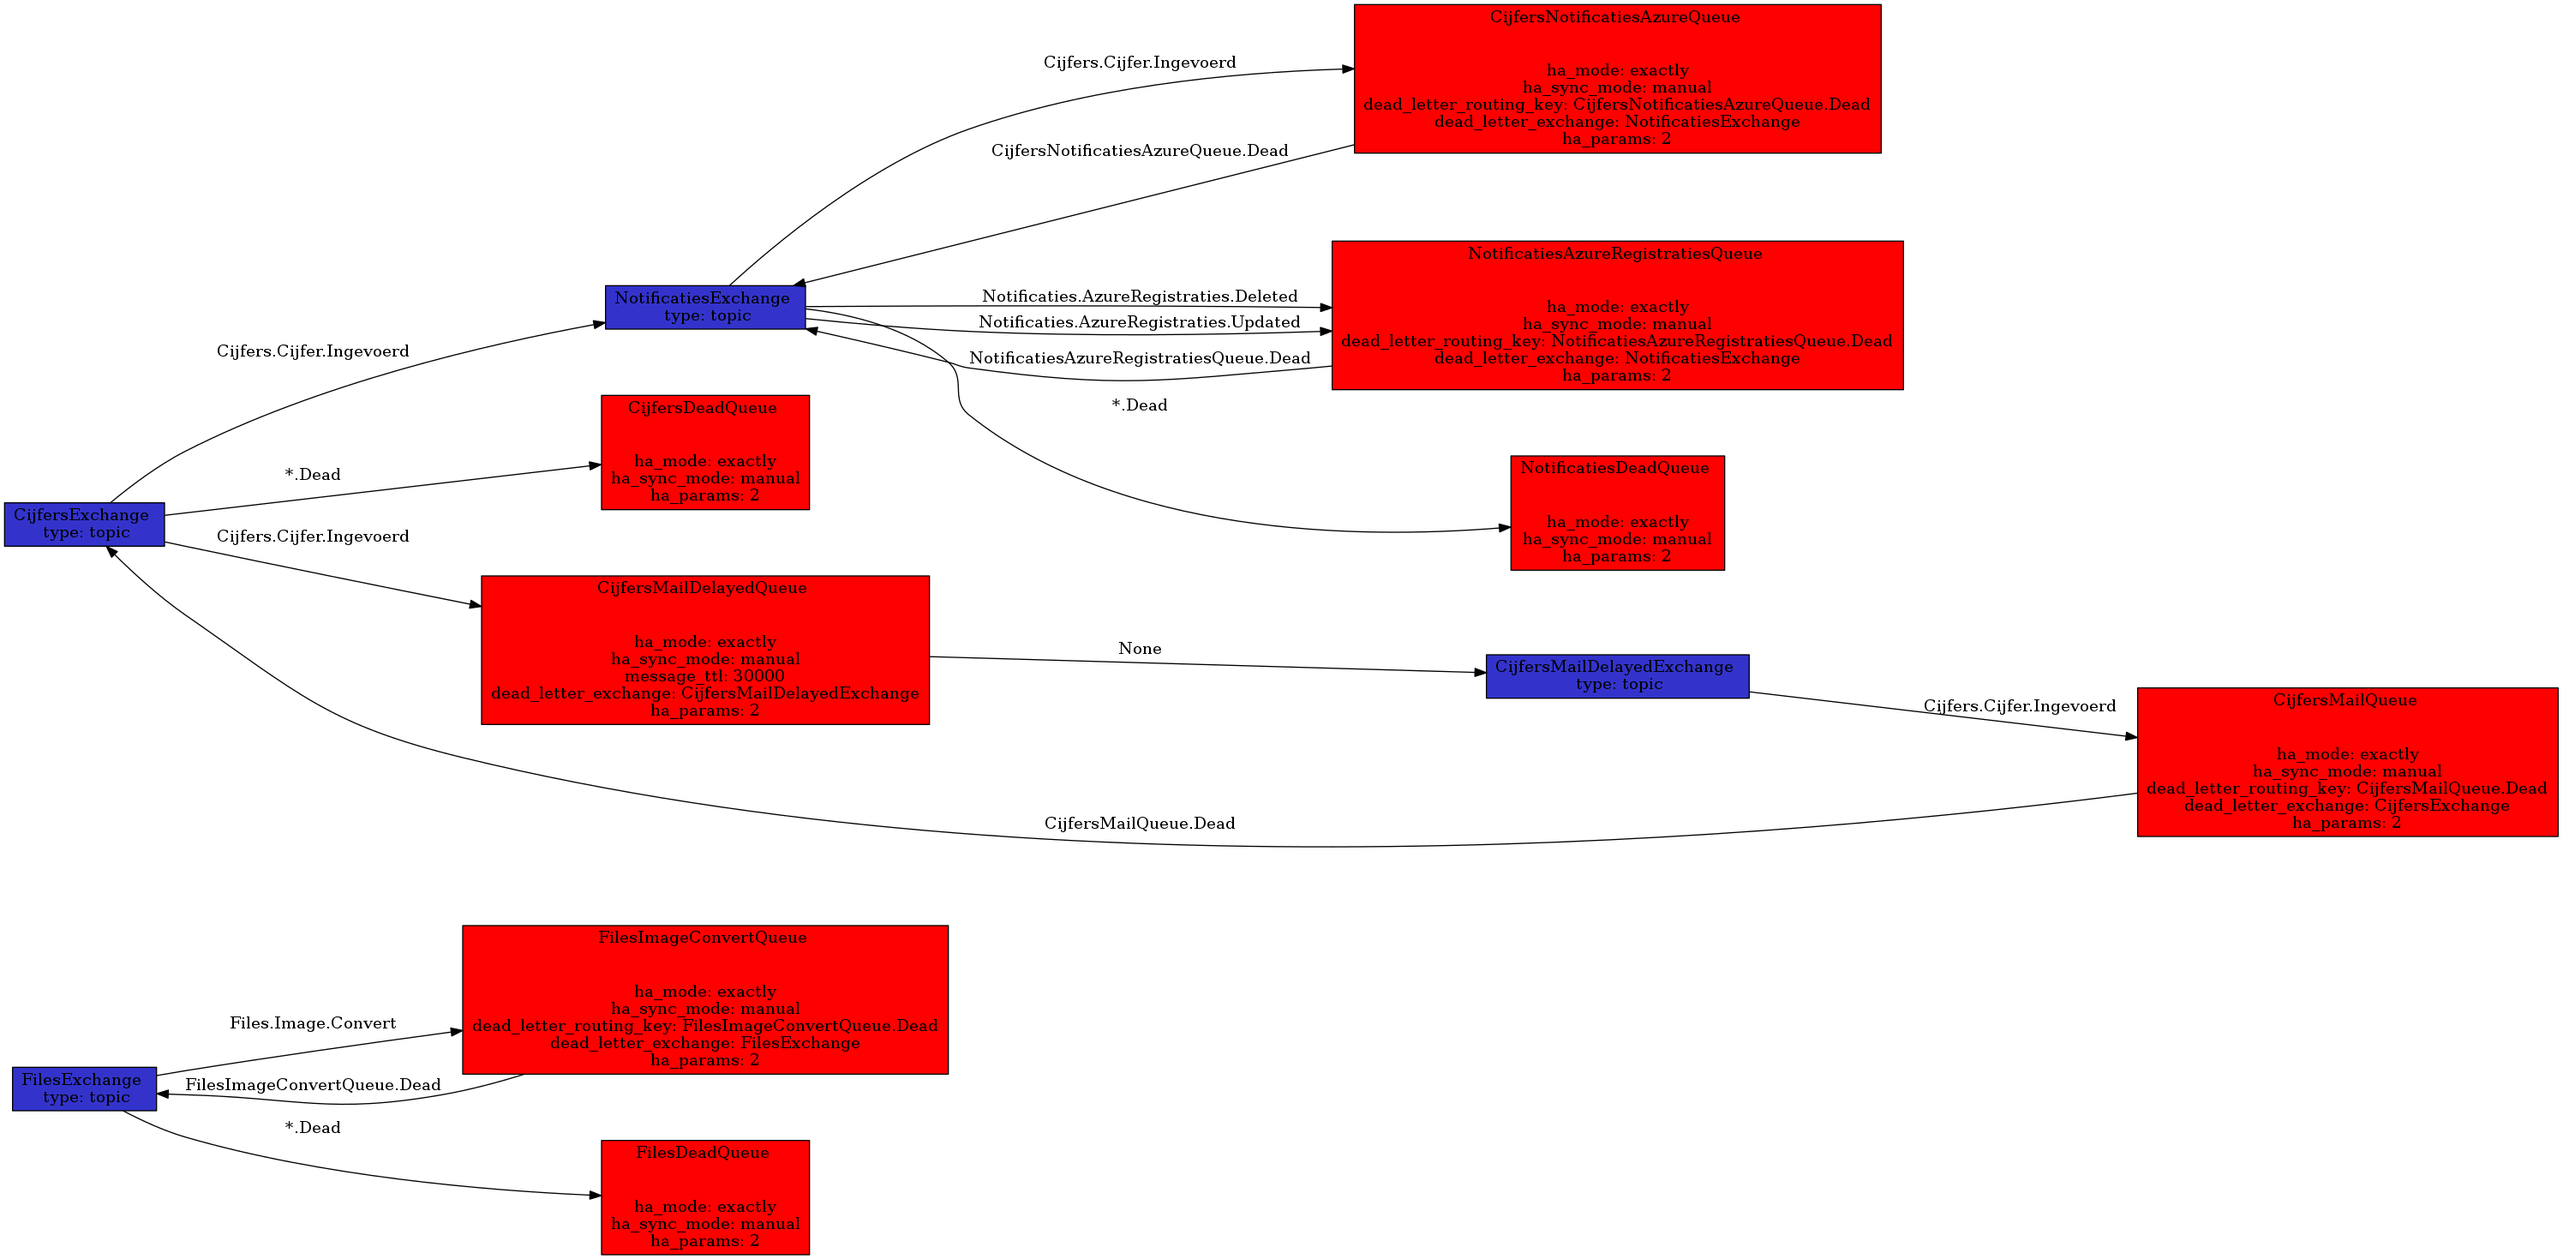
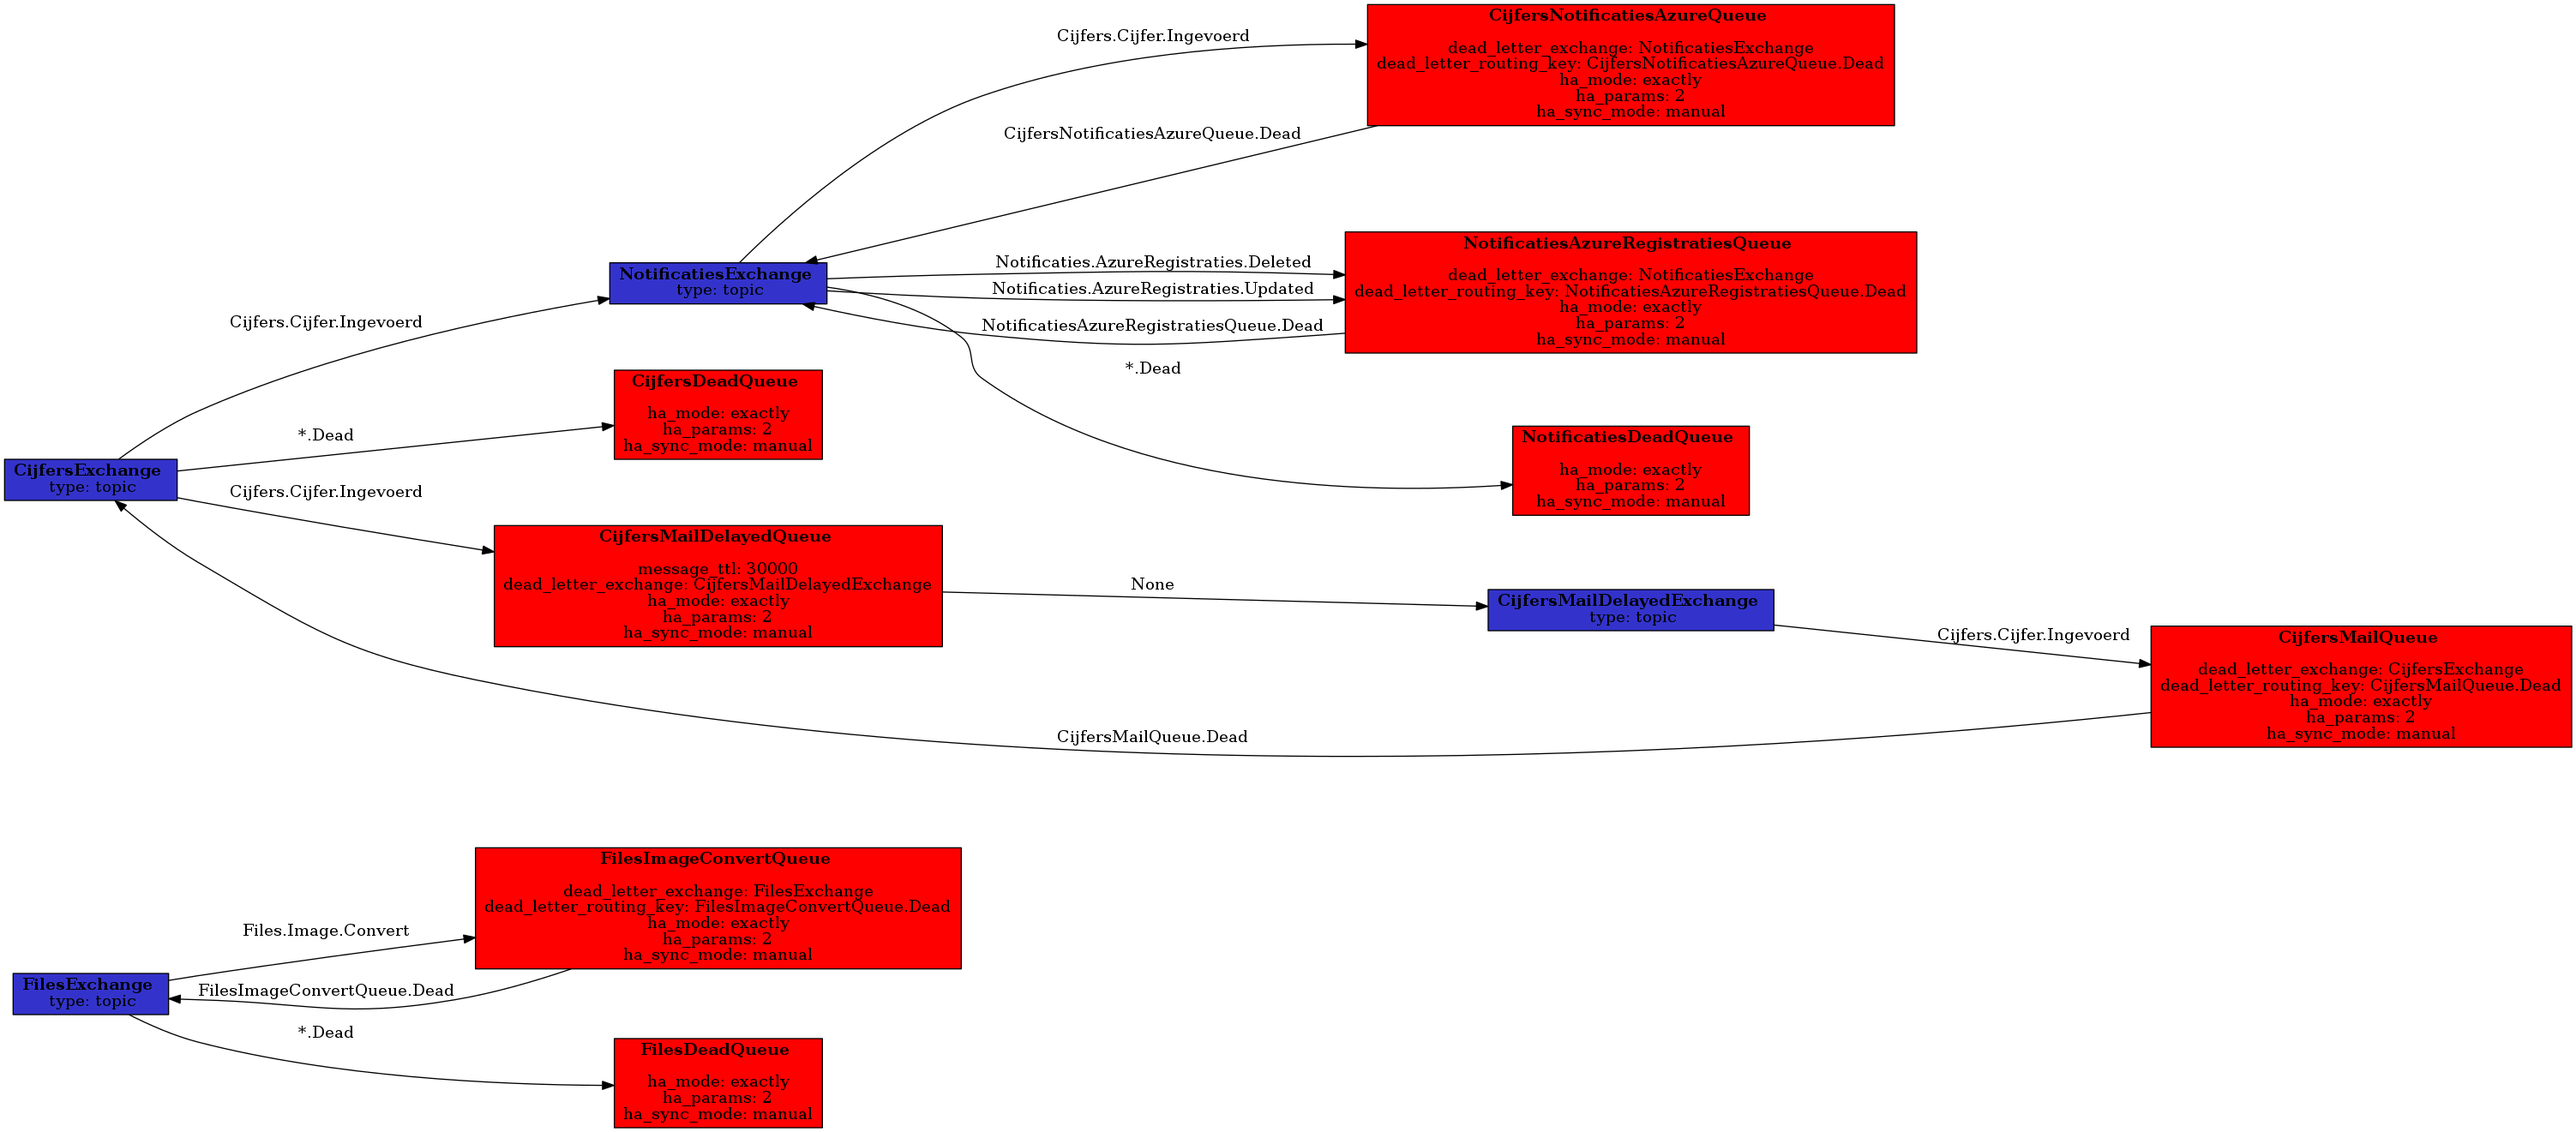
html labels

diff --git a/app/broker.py b/app/broker.py
@@ -50,7 +50,7 @@ class BrokerExchange:
 
     def label(self):
         ''' Exchange label '''
-        template = '{} \n type: {}'
+        template = '<<b>{}</b> <br /> type: {}>'
         return template.format(self.name, self.type)
 
 
@@ -66,11 +66,11 @@ class BrokerQueue:
 
     def label(self):
         ''' Queue label '''
-        label = '{} \n'.format(self.name)
+        label = '<<b>{}</b> <br />'.format(self.name)
         for policy in self.policies:
             label = '\n'.join((label, policy.definition.label()))
 
-        return label
+        return '{}>'.format(label)
 
 
 class BrokerBinding:
@@ -107,6 +107,6 @@ class BrokerPolicyDefinition:
         label = ''
         for key, value in self.__dict__.items():
             if value:
-                label = '\n'.join((label, '{}: {}'.format(key, value)))
+                label = '<br />'.join((label, '{}: {}'.format(key, value)))
 
         return label
